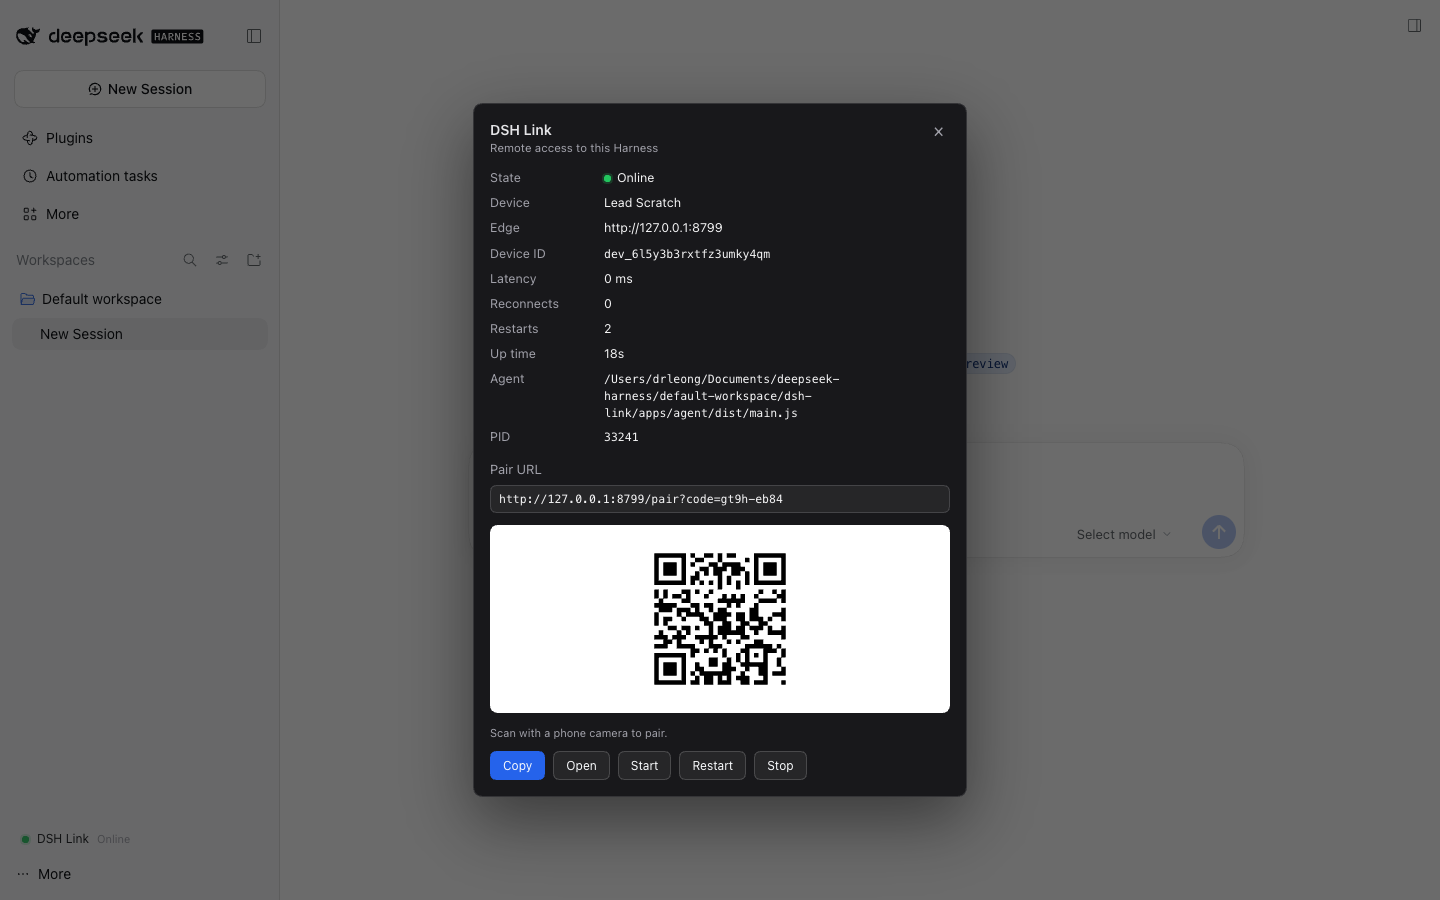
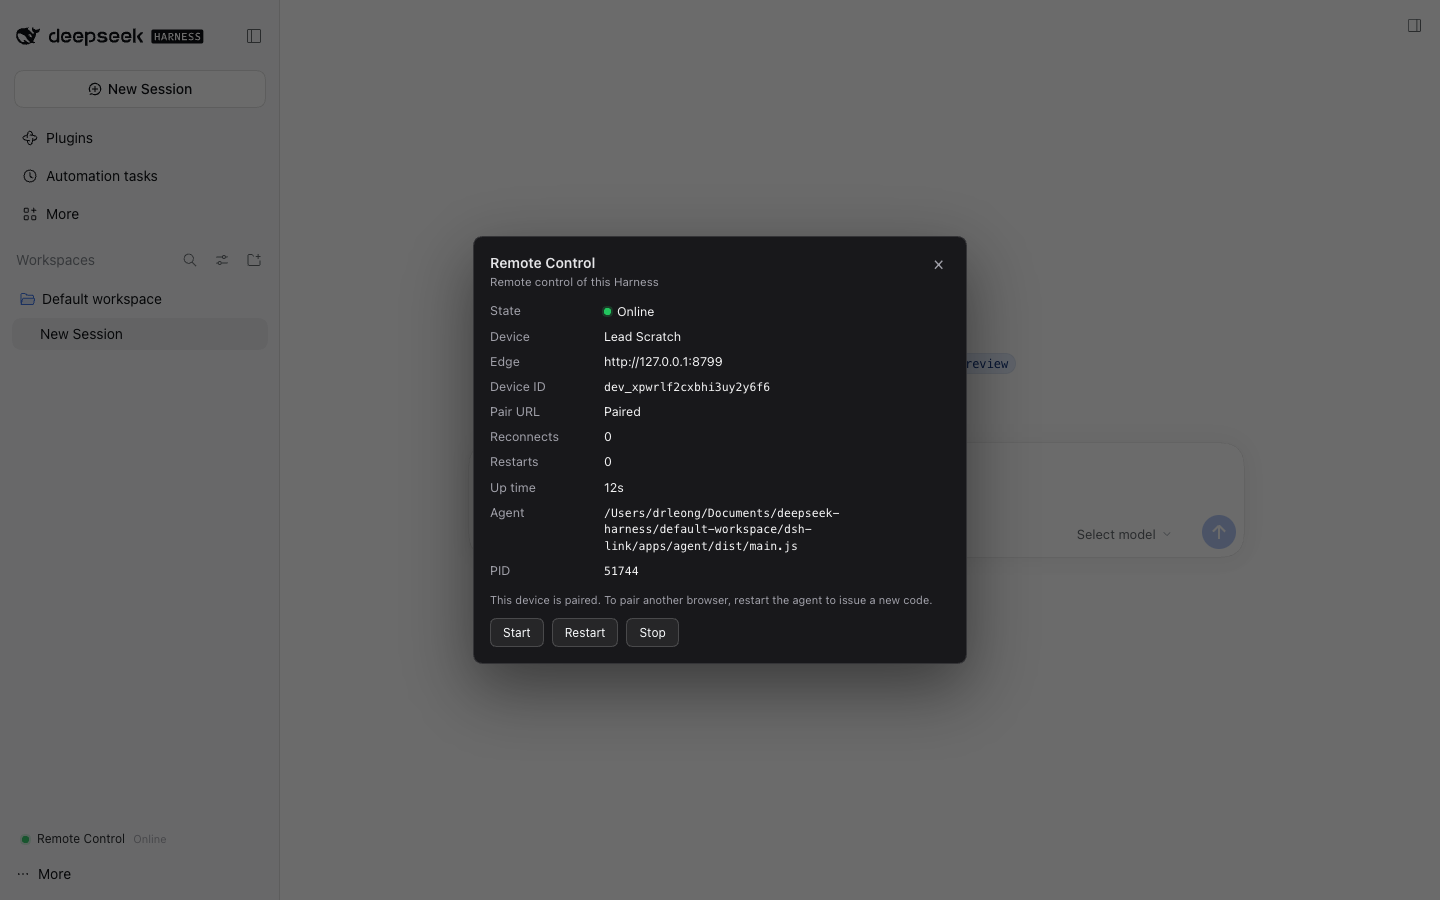
feat(plugin): show the Harness entry as Remote Control
Rename the sidebar entry, modal title, locales and plugin README to
Remote Control. The project, packages and repository keep the dsh-link name.
Refresh the panel screenshot and drop the unused sidebar image.

Changed region(s): [[0.3125, 0.0933, 0.6875, 0.9333], [0.0312, 0.9022, 0.0625, 0.9333]]

diff --git a/packages/plugin/src/client/index.ts b/packages/plugin/src/client/index.ts
@@ -1,5 +1,6 @@
 /**
- * DSH Link client half: a sidebar footer entry plus a status modal.
+ * Remote Control client half (DSH Link project): a sidebar footer entry plus
+ * a status modal.
  *
  * Bundle contract (verified against `@deepseek-ai/dsh-client-modules`): the
  * file is a classic script that calls `window.__ModuleLoader__.load({ id,
@@ -61,8 +62,8 @@ const MODAL_ID = 'dsh-link-status-modal';
 /* ------------------------------ dictionaries ------------------------------ */
 
 const EN: Record<string, string> = {
-  title: 'DSH Link',
-  subtitle: 'Remote access to this Harness',
+  title: 'Remote Control',
+  subtitle: 'Remote control of this Harness',
   state: 'State',
   stateStarting: 'Starting',
   statePairing: 'Pairing',
@@ -94,7 +95,7 @@ const EN: Record<string, string> = {
   stop: 'Stop',
   close: 'Close',
   refresh: 'Refresh',
-  hostUnavailable: 'Host service unavailable. The DSH Link host plugin is not loaded in this profile, or its RPC channel failed to register.',
+  hostUnavailable: 'Host service unavailable. The Remote Control host plugin is not loaded in this profile, or its RPC channel failed to register.',
   disabledHint: 'The plugin is disabled in configuration. Press Start to run the agent anyway.',
   stoppedHint: 'The agent is not running.',
   qrHint: 'Scan to open the pairing link in a browser.',
@@ -102,8 +103,8 @@ const EN: Record<string, string> = {
 };
 
 const ZH: Record<string, string> = {
-  title: 'DSH 远程访问',
-  subtitle: '远程访问此 Harness',
+  title: '远程控制',
+  subtitle: '远程控制此 Harness',
   state: '状态',
   stateStarting: '启动中',
   statePairing: '等待配对',
@@ -135,7 +136,7 @@ const ZH: Record<string, string> = {
   stop: '停止',
   close: '关闭',
   refresh: '刷新',
-  hostUnavailable: '宿主服务不可用：此配置未加载 DSH Link 宿主插件，或其 RPC 通道注册失败。',
+  hostUnavailable: '宿主服务不可用：此配置未加载 Remote Control 宿主插件，或其 RPC 通道注册失败。',
   disabledHint: '插件在配置中处于禁用状态。点击“启动”仍可手动运行代理。',
   stoppedHint: '代理未运行。',
   qrHint: '扫码在浏览器中打开配对链接。',

diff --git a/README.md b/README.md
@@ -122,13 +122,13 @@ the device and pair the browser. The DSH UI is then at
 
 ### 3. Desktop plugin (recommended)
 
-The plugin mints the authenticated URL from the running DSH desktop, writes it
-to a 0600 file, spawns and supervises the agent, and shows a status panel in the
-Harness sidebar: state, device id, latency, reconnects, start/restart/stop
+The plugin appears in Harness as **Remote Control**. It mints the authenticated
+URL from the running DSH desktop, writes it to a 0600 file, spawns and
+supervises the agent, and shows a status panel in the Harness sidebar: state, device id, latency, reconnects, start/restart/stop
 controls, and — while pairing only — the pair link with a QR code. Once online
 the panel shows "Paired" instead of a dead QR.
 
-![DSH Link status panel in Harness: state, device, latency, QR pairing and controls](docs/images/plugin-panel.png)
+![Remote Control panel in Harness: state, device, latency, QR pairing and controls](docs/images/plugin-panel.png)
 
 ```bash
 dsh plugin --profile <profile> add link:"$PWD/packages/plugin"

diff --git a/packages/plugin/README.md b/packages/plugin/README.md
@@ -1,9 +1,9 @@
-# @dsh-link/plugin — DSH Link for DeepSeek Harness
+# Remote Control — DeepSeek Harness plugin
 
 Host plugin + browser half that expose this DeepSeek Harness through a
 self-hosted **DSH Link edge**. The plugin starts and supervises the tunnel
 agent, hands it the DSH launch URL without putting the token in `argv`, and
-adds a **DSH Link** entry to the sidebar with live state, a pair URL, a QR
+adds a **Remote Control** entry to the sidebar with live state, a pair URL, a QR
 code, and start/restart/stop controls.
 
 - DSH target: **0.2.1-rc.3** (`engines.dsh: ">=0.2.1-rc.3 <0.3.0"`)
@@ -150,7 +150,7 @@ memory.
 
 ## Sidebar panel
 
-A **DSH Link** row in the sidebar footer shows a state dot and label
+A **Remote Control** row in the sidebar footer shows a state dot and label
 (Starting / Pairing / Connecting / Online / Reconnecting / Error / Stopped).
 Clicking opens a modal with:
 

diff --git a/CHANGELOG.md b/CHANGELOG.md
@@ -23,7 +23,7 @@ First end-to-end release. Desktop-only remote access for DeepSeek Harness
   file, never argv/logs), loopback-only proxy, full-jitter reconnect
   (250 ms–20 s), terminal close-code handling, and a per-state-dir singleton
   lock.
-- **Harness plugin** (`packages/plugin`): host service that mints the
+- **Harness plugin — "Remote Control"** (`packages/plugin`): host service that mints the
   authenticated URL, supervises the agent (Electron-safe runtime selection), and
   a sidebar status panel with state, latency, reconnects, uptime, pairing QR and
   start/restart/stop.

diff --git a/docs/README.zh.md b/docs/README.zh.md
@@ -117,7 +117,7 @@ pairing（或带新配对码的 error）时**，弹窗才显示 pair URL 的 Cop
 online/connecting/reconnecting 后只显示 Paired + device id，因为配对码一次性，
 需要重启 agent 才会产生新码。
 
-![Harness 侧边栏中的 DSH Link 状态](images/plugin-sidebar.png)
+![Harness 中的远程控制面板：状态、设备、延迟、配对二维码与操作](images/plugin-panel.png)
 
 ```bash
 dsh plugin --profile <profile> add link:"$PWD/packages/plugin"
